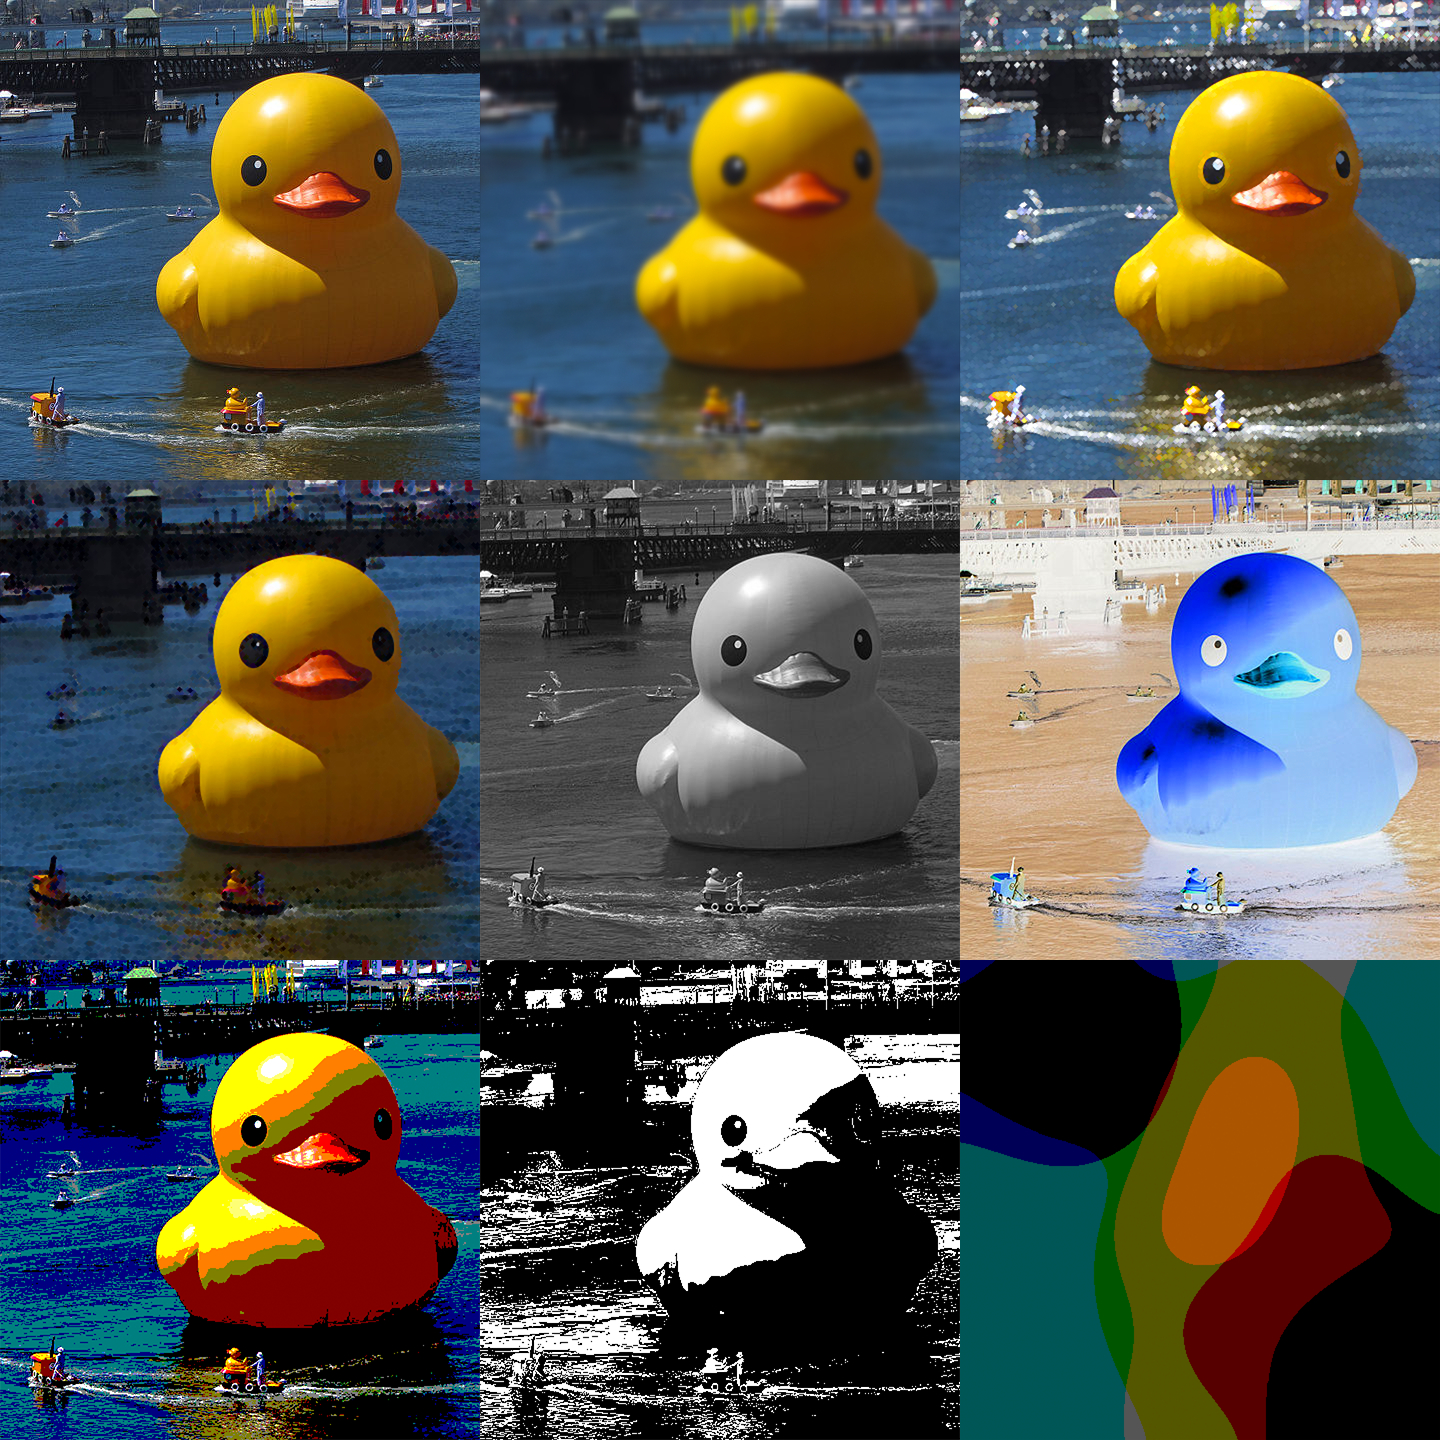
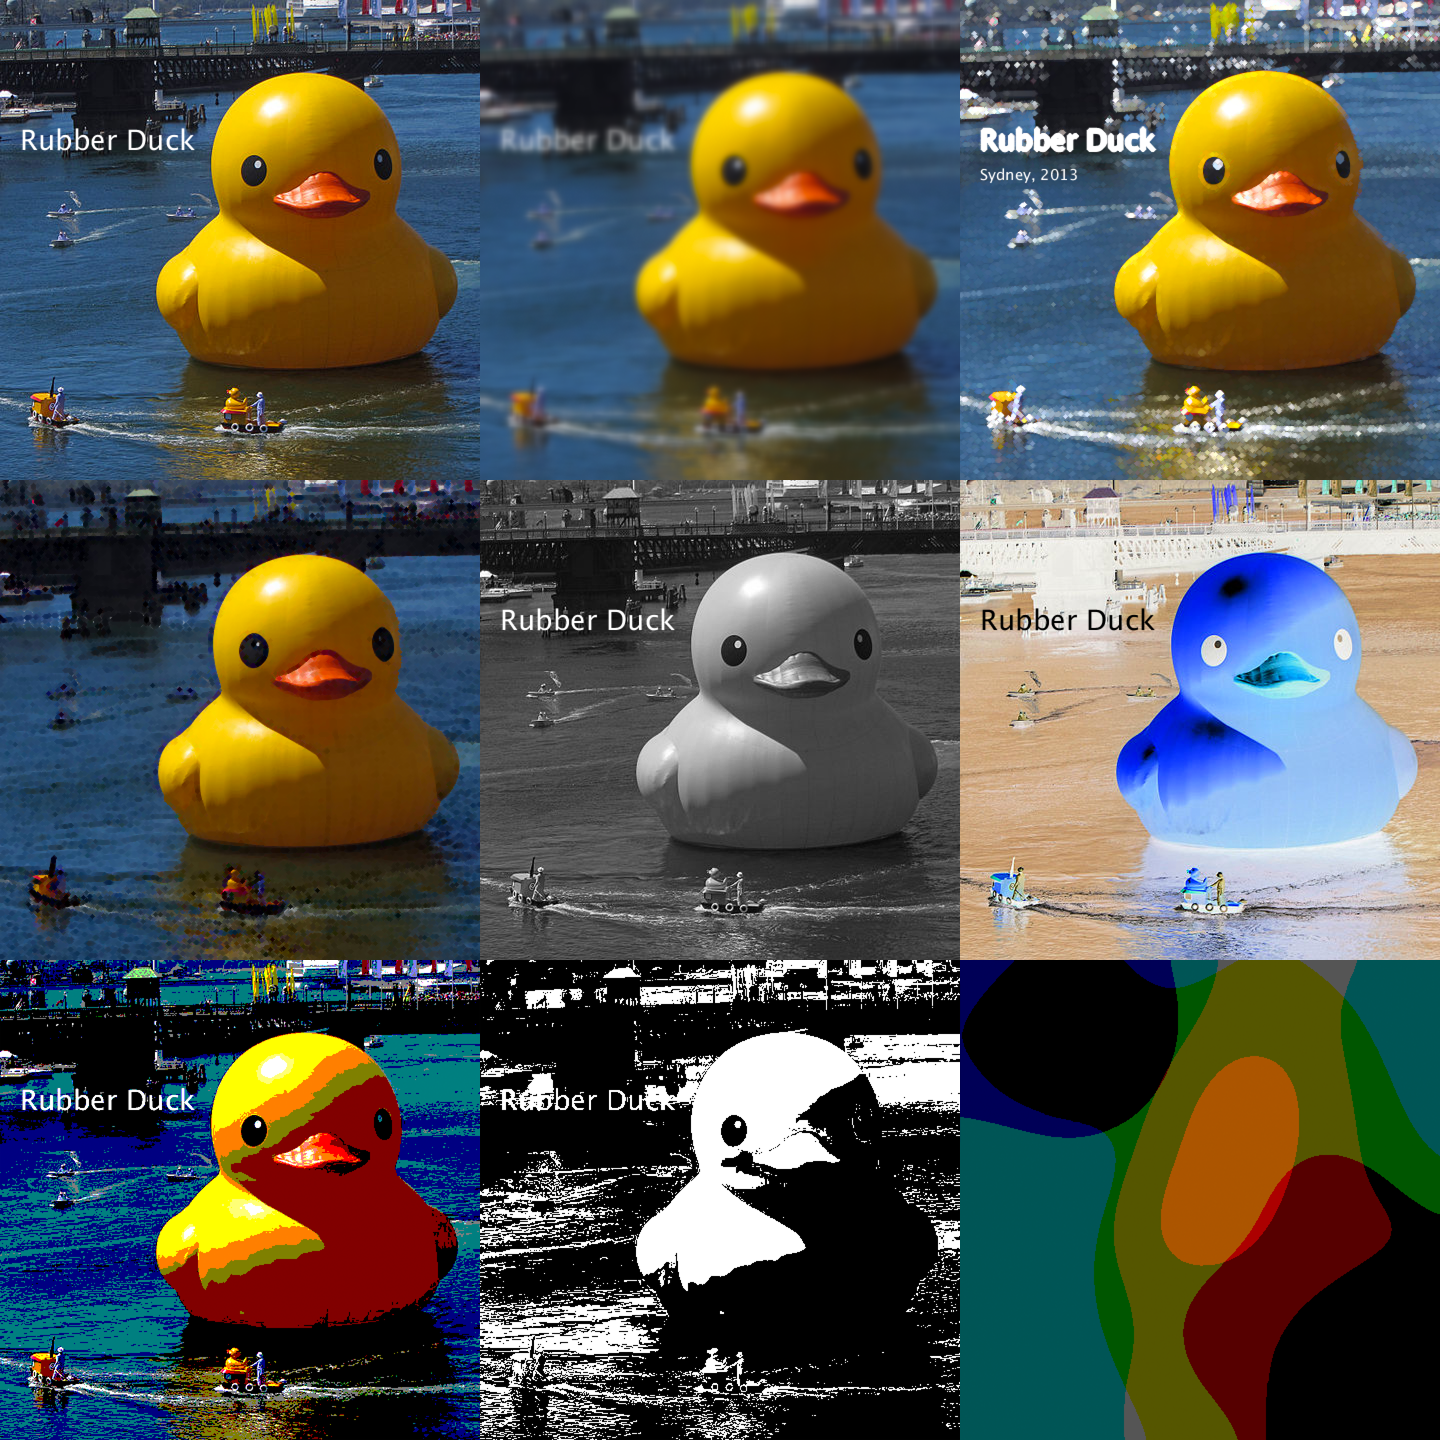
- wip

diff --git a/_posts/2019-01-25-processing.py_in_ten_lessons--06-_tiny_blocks_of_colour.md b/_posts/2019-01-25-processing.py_in_ten_lessons--06-_tiny_blocks_of_colour.md
@@ -1118,26 +1118,49 @@ If you have no idea where to start, consider a separate kernel for each R/G/B ch
 
 ## Filters and Blends
 
+Processing includes a number of different filter effects and blend modes. If you are a user of raster graphics software, such as GIMP or Photoshop, you have almost certainly encountered some of these before. On a technical level, blend modes, and most filters, operate on colour channels. Processing's filter and blend functions cover a selection of common image processing algorithms. Technically speaking, one can program these effects using the techniques covered thus far. In fact, we look at replicating a few of the simpler blend modes.
 
+### Filters
 
+Filters range from the utilitarian and understated to the hideously gaudy. To be fair, most have their place, but perhaps some users lack an understanding of how much of -- and to which parts of an image -- a given filter should be applied. That said, there are some impressive developments being made in this area, thanks in part to advances in artificial intelligence. Rather than list all of GIMP's filters, here are the top-level categories into which they are arranged: blur, enhance, distort, light and shadow, noise, edge detect, generic, combine, artistic, decor, map, render, web, and animation. On average, a category probably contains around ten, so that's a lot of filters! Processing has eight in total.
 
-the above but less flexible ...
+Filters are easy to use. The [`filter()`](https://py.processing.org/reference/filter.html) function requires a predefined filter name as an argument. Depending on the filter, there may be a second parameter. If you want to experiment, download this photo of Florentijn Hofman's *Rubber Duck*. However, you may prefer to just read over this section. An image comparing all of the effects is provided further along.
 
-### Images
+<a href="{{ site.url }}/img/pitl06/wikimedia-backup/480px-Rubber_Duck_in_Sydney,_January_5,_2013" download>480px-Rubber_Duck_in_Sydney,_January_5,_2013.png</a>
 
-<figure>
-  <img src="{{ site.url }}/img/pitl06/filters-and-blends-gimp-blending-modes.png" class="fullwidth" />
-</figure>
+If you have decided to write some code, place the image in the sketch's "data" sub-directory and add the following code:
 
-https://py.processing.org/reference/filter.html
-
+{% highlight py %}
+size(480,480)
+background('#004477')
+rubberduck = loadImage(
+  '480px-Rubber_Duck_in_Sydney,_January_5,_2013.jpg'
+)
+image(rubberduck, 0,0)
+textSize(28)
+text('Rubber Duck', 20,150)
+{% endhighlight %}
 
 <figure>
   <img src="{{ site.url }}/img/pitl06/filters-and-blends-filter-start.png" />
-  Source: <a href="https://commons.wikimedia.org/wiki/File:Rubber_Duck_in_Sydney,_January_5,_2013.jpg">Wikimedia Commons</a>
+  <figcaption>
+    Source: <a href="https://commons.wikimedia.org/wiki/File:Rubber_Duck_in_Sydney,_January_5,_2013.jpg">Wikimedia Commons</a>
+  </figcaption>
 </figure>
 
-...
+To blur the image, add the following line to the end of your code:
+
+{% highlight py %}
+filter(BLUR)
+{% endhighlight %}
+
+If you want more blurring, `BLUR` accepts an additional level parameter. For example:
+
+{% highlight py %}
+filter(BLUR)
+{% endhighlight %}
+
+Below is image comparing each of Processing's filter options. The corresponding function calls have been provided in the caption.
 
 <figure>
   <img src="{{ site.url }}/img/pitl06/filters-and-blends-filter-types.png" class="fullwidth" />
@@ -1159,6 +1182,37 @@ https://py.processing.org/reference/filter.html
   </figcaption>
 </figure>
 
+Everything drawn before the `filter` is manipulated by the effect. However, anything added after it is unaffected.
+
+{% highlight py %}
+...
+filter(BLUR)
+textSize(15)
+text('Sydney, 2013', 20,180)
+{% endhighlight %}
+
+<figure>
+  <img src="{{ site.url }}/img/pitl06/filters-and-blends-filter-ordering.png" />
+  <figcaption>The <q>Sydney, 2013</q> line comes after the filter and is, therefore, unaffected.</figcaption>
+</figure>
+
+....
+
+
+### Image Blend Modes
+
+<figure>
+  <img src="{{ site.url }}/img/pitl06/filters-and-blends-gimp-blending-modes.png" class="fullwidth" />
+</figure>
+
+https://py.processing.org/reference/filter.html
+
+
+
+
+...
+
+
 ...
 
 
@@ -1172,7 +1226,7 @@ https://py.processing.org/reference/filter.html
 ...
 
 
-### BlendMode()
+### Drawing Blend Modes
 
 modrian
 
